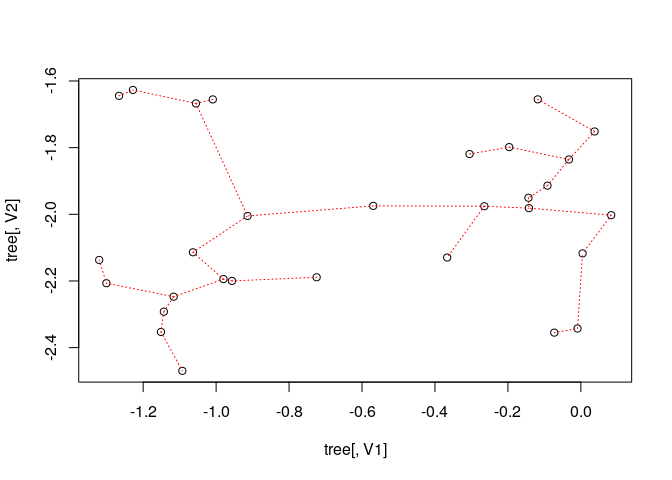
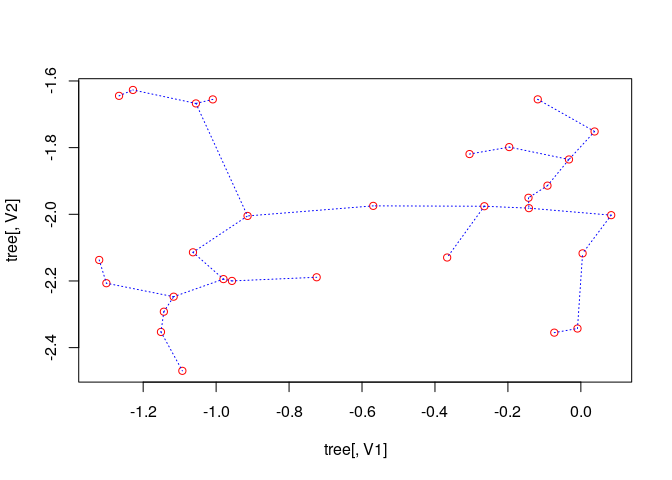
version 2.1.0

diff --git a/src/RcppExports.cpp b/src/RcppExports.cpp
@@ -8,12 +8,12 @@
 using namespace Rcpp;
 
 // mlpack_mst
-Rcpp::NumericMatrix mlpack_mst(arma::mat data);
+Rcpp::NumericMatrix mlpack_mst(arma::mat& data);
 RcppExport SEXP _emstreeR_mlpack_mst(SEXP dataSEXP) {
 BEGIN_RCPP
     Rcpp::RObject rcpp_result_gen;
     Rcpp::RNGScope rcpp_rngScope_gen;
-    Rcpp::traits::input_parameter< arma::mat >::type data(dataSEXP);
+    Rcpp::traits::input_parameter< arma::mat& >::type data(dataSEXP);
     rcpp_result_gen = Rcpp::wrap(mlpack_mst(data));
     return rcpp_result_gen;
 END_RCPP

diff --git a/src/mlpack_mst.cpp b/src/mlpack_mst.cpp
@@ -1,3 +1,5 @@
+// [[Rcpp::depends(RcppMLPACK)]]
+
 #include <RcppMLPACK.h>				// MLPACK, Rcpp and RcppArmadillo
 
 
@@ -15,7 +17,7 @@ using namespace std;
 //' produce the Minimum Spanning Tree.
 //'
 // [[Rcpp::export]]
-Rcpp::NumericMatrix mlpack_mst(arma::mat data)
+Rcpp::NumericMatrix mlpack_mst(arma::mat& data)
 {
 	// transposing the matrix so mlpack accepts the format v4
 	data = data.t();

diff --git a/README.md b/README.md
@@ -4,7 +4,7 @@ emstreeR
 ========
 
 <!-- # emstreeR <img src="man/figures/logo.png" align="right" /> -->
-[![Travis-CI Build Status](https://travis-ci.org/allanvc/emstreeR.svg?branch=master)](https://travis-ci.org/allanvc/emstreeR) [![CRAN\_Status\_Badge](https://www.r-pkg.org/badges/version/emstreeR)](https://cran.r-project.org/package=emstreeR) [![Downloads](http://cranlogs.r-pkg.org/badges/emstreeR?color=brightgreen)](http://www.r-pkg.org/pkg/emstreeR) [![License](https://img.shields.io/badge/License-BSD%203--Clause-blue.svg?style=flat-square)](https://opensource.org/licenses/BSD-3-Clause)
+[![Travis-CI Build Status](https://travis-ci.org/allanvc/emstreeR.svg?branch=master)](https://travis-ci.org/allanvc/emstreeR) [![CRAN\_Status\_Badge](https://www.r-pkg.org/badges/version/emstreeR)](https://cran.r-project.org/package=emstreeR) <!-- [![Downloads](http://cranlogs.r-pkg.org/badges/emstreeR?color=brightgreen)](http://www.r-pkg.org/pkg/emstreeR) --> [![Downloads from the RStudio CRAN mirror](https://cranlogs.r-pkg.org/badges/grand-total/emstreeR)](https://cran.r-project.org/package=emstreeR) [![License](https://img.shields.io/badge/License-BSD%203--Clause-blue.svg?style=flat-square)](https://opensource.org/licenses/BSD-3-Clause)
 
 Overview
 --------
@@ -92,7 +92,7 @@ out <- ComputeMST(d, verbose = FALSE)
 
 ``` r
 ## simple 2D plot:
-plot(out, col.segts = "red")
+plot(out, col.pts = "red", col.segts = "blue")
 ```
 
 <img src="man/figures/README-base-1.png">
@@ -106,6 +106,16 @@ ggplot(data = out, aes(x = x, y = y, from = from, to = to))+
 ```
 
 <img src="man/figures/README-ggplot-1.png">
+
+``` r
+## 2D curved edges plot with ggplot2:
+library(ggplot2)
+ggplot(data = out, aes(x = x, y = y, from=from, to=to))+ 
+  geom_point()+ 
+  stat_MST(geom="curve")
+```
+
+<img src="man/figures/README-ggplot_curved-1.png">
 
 ### 3D Plot
 
@@ -162,9 +172,9 @@ out <- ComputeMST(df.port_locations[,2:3], verbose = FALSE)
 
 ``` r
 ## Plot:
-map <- c(left = -8, bottom = 32, right = 20, top = 47)
+map_grid <- c(left = -8, bottom = 32, right = 20, top = 47)
     
-get_stamenmap(map, zoom = 5) %>% ggmap()+
+get_stamenmap(map_grid, zoom = 5) %>% ggmap()+
   stat_MST(data = out,
            aes(x = lon, y = lat, from=from, to=to), 
            colour="red", linetype = 2)+

diff --git a/NEWS.md b/NEWS.md
@@ -1,18 +1,12 @@
-# emstreeR 2.0.0 (2018-11-28 - pre CRAN release)
+# emstreeR 2.0.1 (2018-12-06 - first patch after CRAN)
 
 ## Internal
 
-* Fix [-Wlang-lang] windows compilation WARNINGs when running devtools::win_check() 
-  by adding `CXX_STD = CXX_11` line to the Makevars.win file. Reference: "Writing
-  R Extensions" manual, section 1.2.4 - "Using C++11 code".
+* Fix compilation in OS X and Solaris:
+  - copied 'Makervars' and 'Makevars.win' from Rcpp
+  - added //Rcpp[[depends(RcppMLPACK)]] to mlpack_mst.cpp file
+
 
 ## New data, functions, and features
 
-* Substituted the wrapper function `plotMST()` for the S3 method `plot.MST()`
-
-* Added 'dontrun' example 'honeymoon cruise' to the package README file 
-
-* Removed broken Japan 'dontrun' example from the package help page 
-  'emstreeR-package.Rd'because of the token problem with GoogleMaps API.
-
-* fixed errors in the DESCRIPTION file as suggested by CRAN
+* fixed typos in the DESCRIPTION file.
